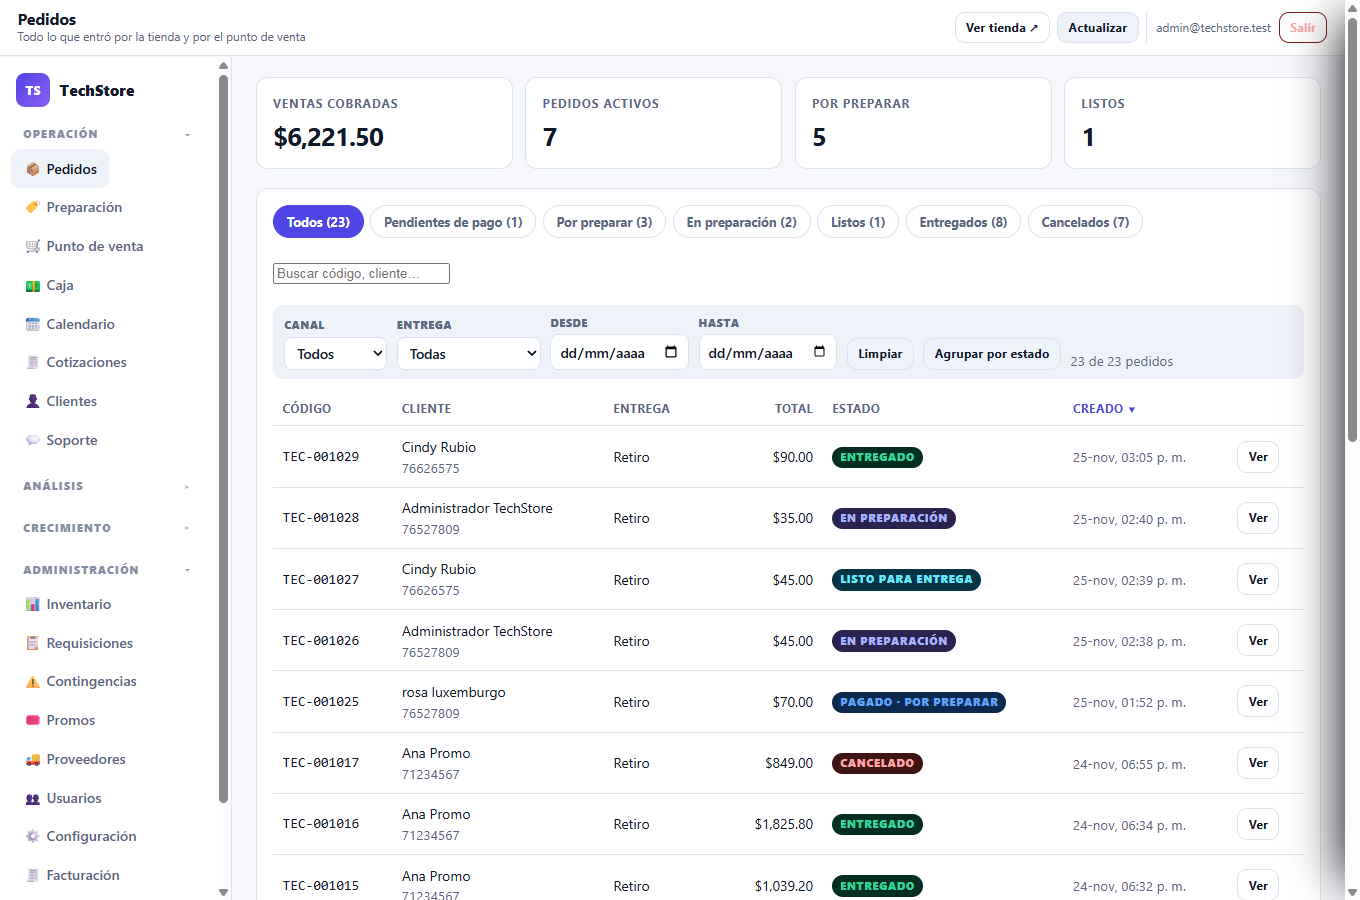
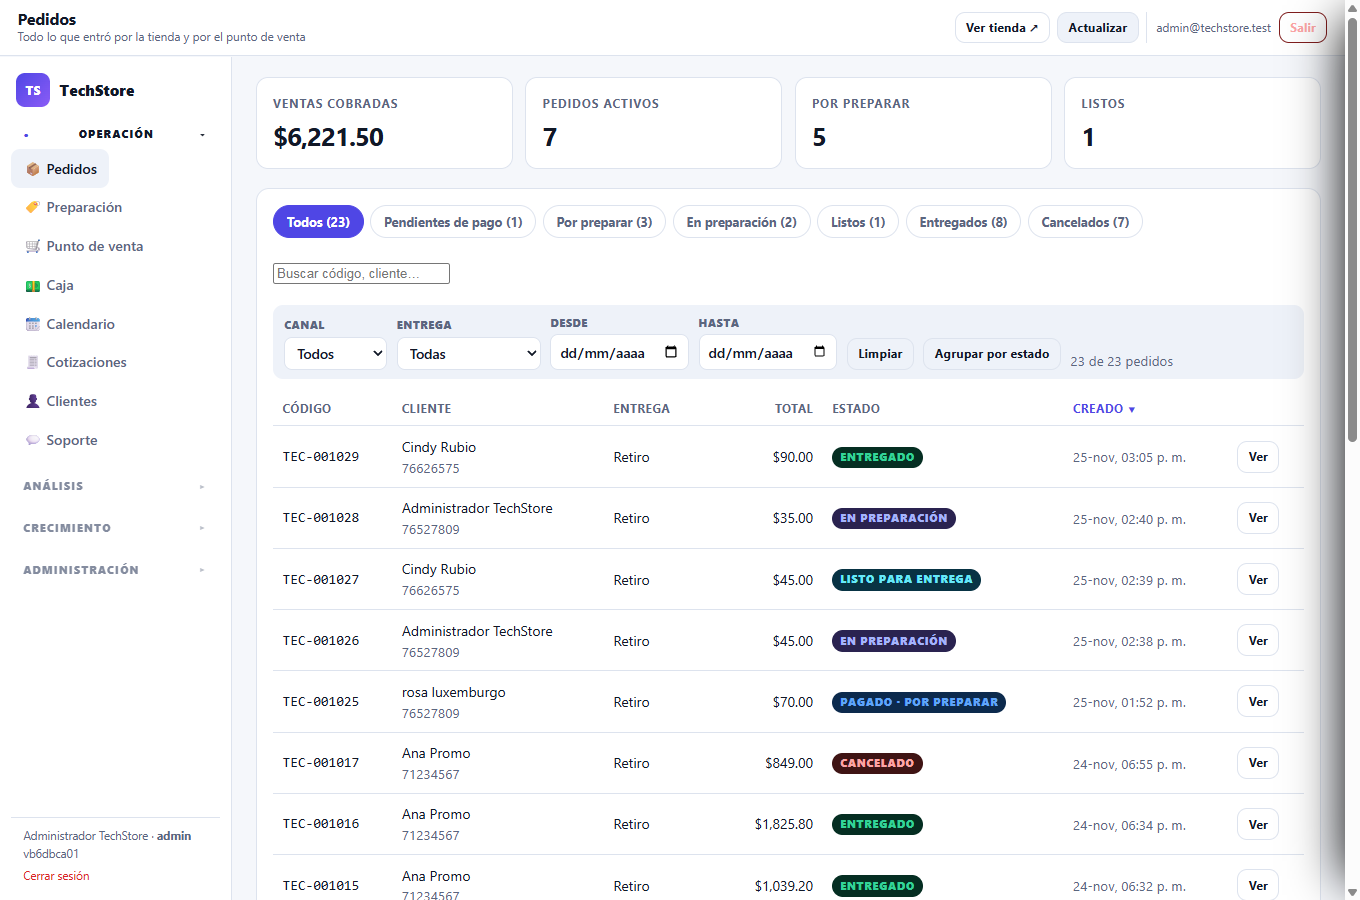
fix(menu): todos los grupos se contraen, incluido el de la vista activa
- Se quita la excepcion que mantenia abierto el grupo activo
- El grupo activo se marca con un punto junto al titulo

diff --git a/css/admin.css b/css/admin.css
@@ -79,8 +79,7 @@ h3{font-size:.98rem}
   .nav-group-title{cursor:default;display:flex;align-items:center;justify-content:space-between;gap:.4rem}
   .nav-group-title::after{content:'▸';font-size:.68rem;opacity:.55;transition:transform .18s ease}
   .nav-group:hover .nav-group-title::after,
-  .nav-group:focus-within .nav-group-title::after,
-  .nav-group:has(button.active) .nav-group-title::after{content:'▾';opacity:.9}
+  .nav-group:focus-within .nav-group-title::after{content:'▾';opacity:.9}
 
   .nav-group > button{
     max-height:0;opacity:0;overflow:hidden;
@@ -88,10 +87,15 @@ h3{font-size:.98rem}
     transition:max-height .22s ease,opacity .16s ease,padding .22s ease
   }
   .nav-group:hover > button,
-  .nav-group:focus-within > button,
-  .nav-group:has(button.active) > button{
+  .nav-group:focus-within > button{
     max-height:52px;opacity:1;padding-top:.55rem;padding-bottom:.55rem
   }
+}
+
+/* el grupo donde está la vista actual se marca, sin quedarse abierto */
+.nav-group:has(button.active) .nav-group-title{color:var(--txt);opacity:1}
+.nav-group:has(button.active) .nav-group-title::before{
+  content:'●';color:var(--accent);font-size:.55rem;margin-right:.35rem;line-height:1
 }
 .side-foot{margin-top:auto;font-size:.72rem;color:var(--muted);padding:.6rem .75rem 0;border-top:1px solid var(--line)}
 .side-foot button{background:none;border:0;color:var(--bad);font:inherit;cursor:pointer;padding:0;margin-top:.3rem}

diff --git a/cotizacion.html b/cotizacion.html
@@ -4,7 +4,7 @@
 <meta charset="utf-8">
 <meta name="viewport" content="width=device-width, initial-scale=1">
 <title>Cotización · TechStore</title>
-<link rel="stylesheet" href="css/admin.css?v=b68d906f">
+<link rel="stylesheet" href="css/admin.css?v=ed9c1144">
 <style>
   body{background:#e5e7eb;color:#000}
   .doc{background:#fff;max-width:760px;margin:1.5rem auto;padding:28px 32px;border-radius:6px;box-shadow:0 10px 30px -14px rgba(0,0,0,.4)}

diff --git a/product-label.html b/product-label.html
@@ -4,7 +4,7 @@
 <meta charset="utf-8">
 <meta name="viewport" content="width=device-width, initial-scale=1">
 <title>Etiqueta de producto · TechStore</title>
-<link rel="stylesheet" href="css/admin.css?v=b68d906f">
+<link rel="stylesheet" href="css/admin.css?v=ed9c1144">
 <style>
   body{background:#e5e7eb;color:#000}
   .sheet-wrap{max-width:420px;margin:1.5rem auto;padding:0 1rem}

diff --git a/sticker.html b/sticker.html
@@ -4,7 +4,7 @@
 <meta charset="utf-8">
 <meta name="viewport" content="width=device-width, initial-scale=1">
 <title>Etiqueta de pedido · TechStore</title>
-<link rel="stylesheet" href="css/admin.css?v=b68d906f">
+<link rel="stylesheet" href="css/admin.css?v=ed9c1144">
 <style>
   body{background:#e5e7eb;color:#000}
   .sheet-wrap{max-width:420px;margin:1.5rem auto;padding:0 1rem}

diff --git a/admin.html b/admin.html
@@ -5,7 +5,7 @@
 <meta name="viewport" content="width=device-width, initial-scale=1">
 <title>Panel · TechStore SV</title>
 <link rel="icon" href="assets/favicon.svg">
-<link rel="stylesheet" href="css/admin.css?v=b68d906f">
+<link rel="stylesheet" href="css/admin.css?v=ed9c1144">
 </head>
 <body>
 
